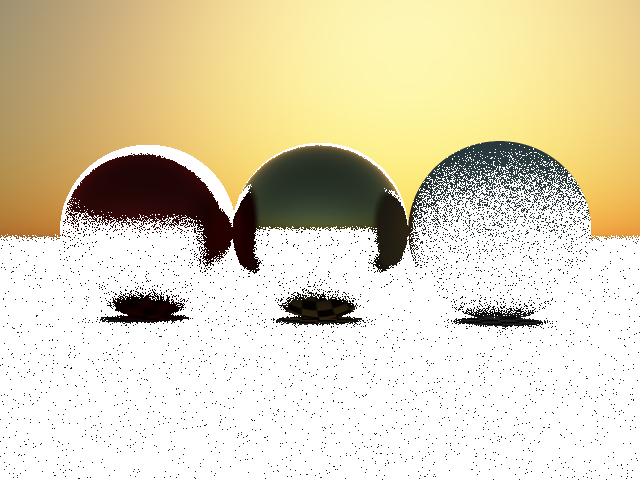
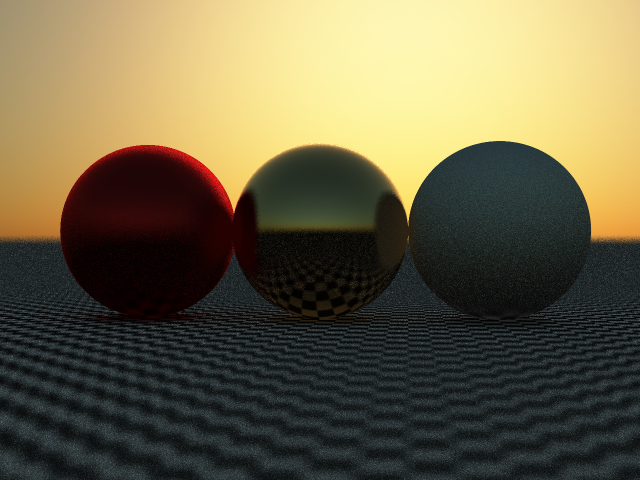
readd clamping

diff --git a/src/trace.rs b/src/trace.rs
@@ -24,7 +24,7 @@ fn trace_sample(r: &Ray, intersection: &Intersection, depth: u64, s: &Scene) -> 
         if let Some(ray) = interaction.ray {
             let (c, col) = trace(&ray, depth + 1, s);
             cast += c;
-            return (cast, interaction.attenuate * col); //.clamp(2.));
+            return (cast, interaction.attenuate * col.clamp(2.));
         } else {
 			return (cast, interaction.attenuate)
 		}
